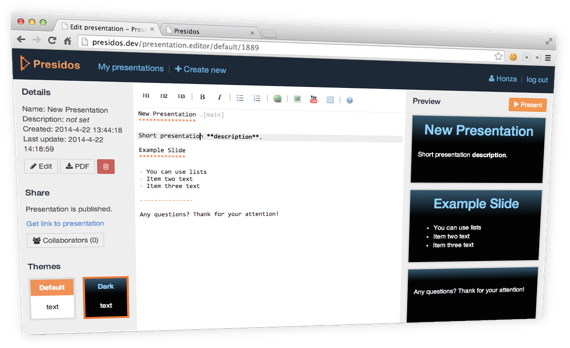
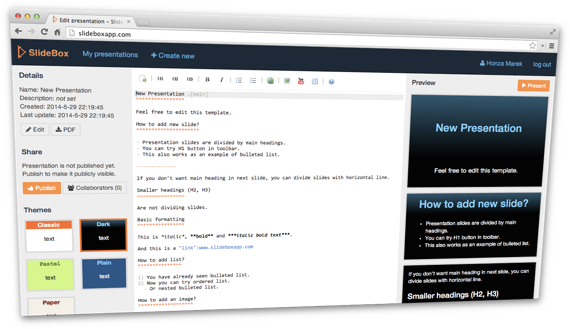
renamed to slidebox

diff --git a/app/less/basic.less b/app/less/basic.less
@@ -16,7 +16,7 @@ a {cursor: pointer}
 	.logo {
 		display: block;
 		height: 30px;
-		width: 108px;
+		width: 111px;
 		background: url(../images/logo.png);
 
 		&:hover {
